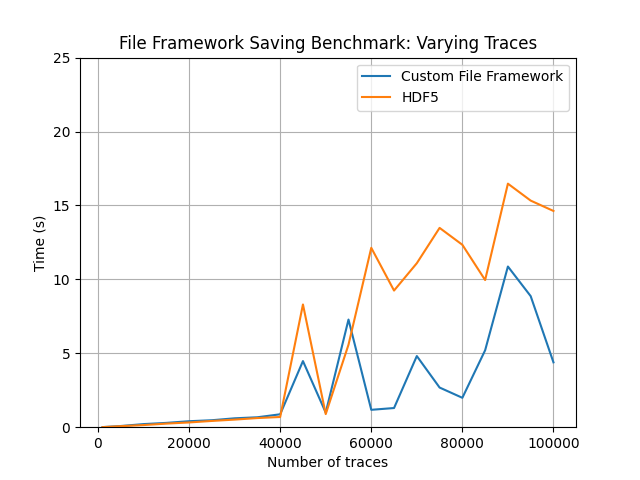
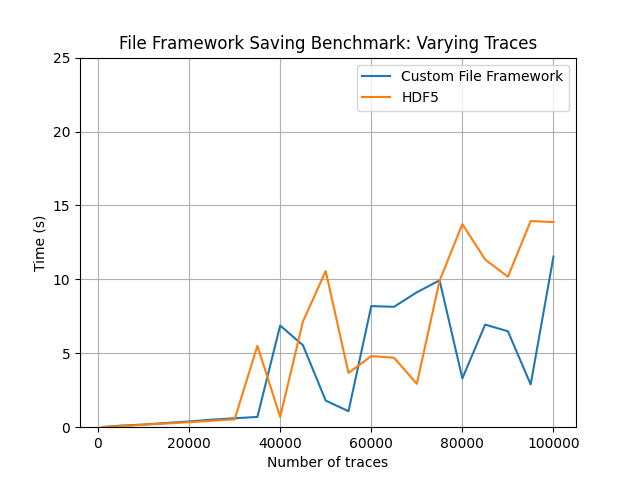
fix file framework benchmark

Changed region(s): [[0.3125, 0.4688, 0.875, 0.875], [0.7812, 0.375, 0.875, 0.5], [0.1875, 0.875, 0.3125, 0.9062]]

diff --git a/Testing/FileFormatTesting.py b/Testing/FileFormatTesting.py
@@ -56,15 +56,12 @@ def benchmark_file_format():
 
         file = FileParent(name="AnotherFile", path="C:\\Users\\samka\\OneDrive\\Desktop\\", existing=True)
         exp = file.get_experiment("Experiment1")
+
         start_save = time.time()
         exp.add_dataset("dataset_{}".format(num_trace), data, datatype="float32")
         end_save = time.time()
-
         times_save.append(end_save - start_save)
 
-        # load the data, measure the time
-        file = FileParent(name="AnotherFile", path="C:\\Users\\samka\\OneDrive\\Desktop\\", existing=True)
-        exp = file.get_experiment("Experiment1")
         start_load = time.time()
         loaded = exp.get_dataset("dataset_{}".format(num_trace)).read_all()
         end_load = time.time()
